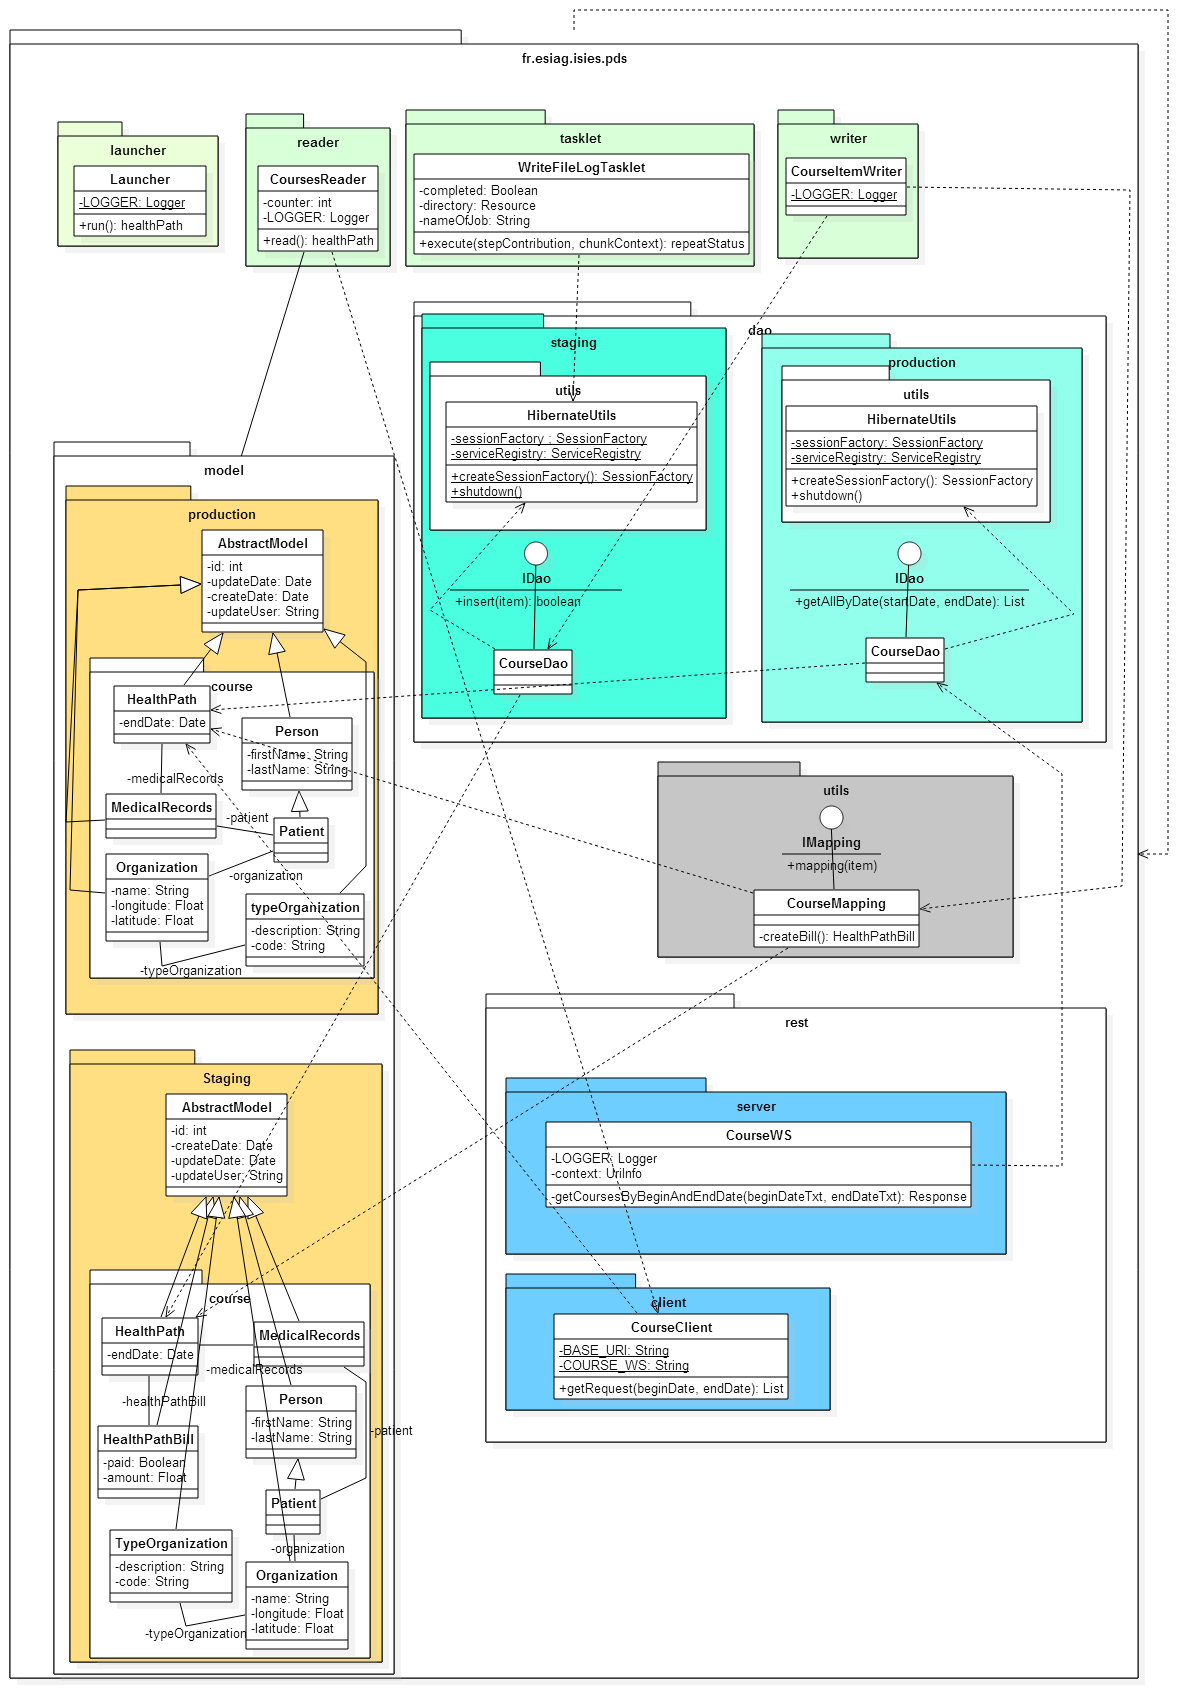
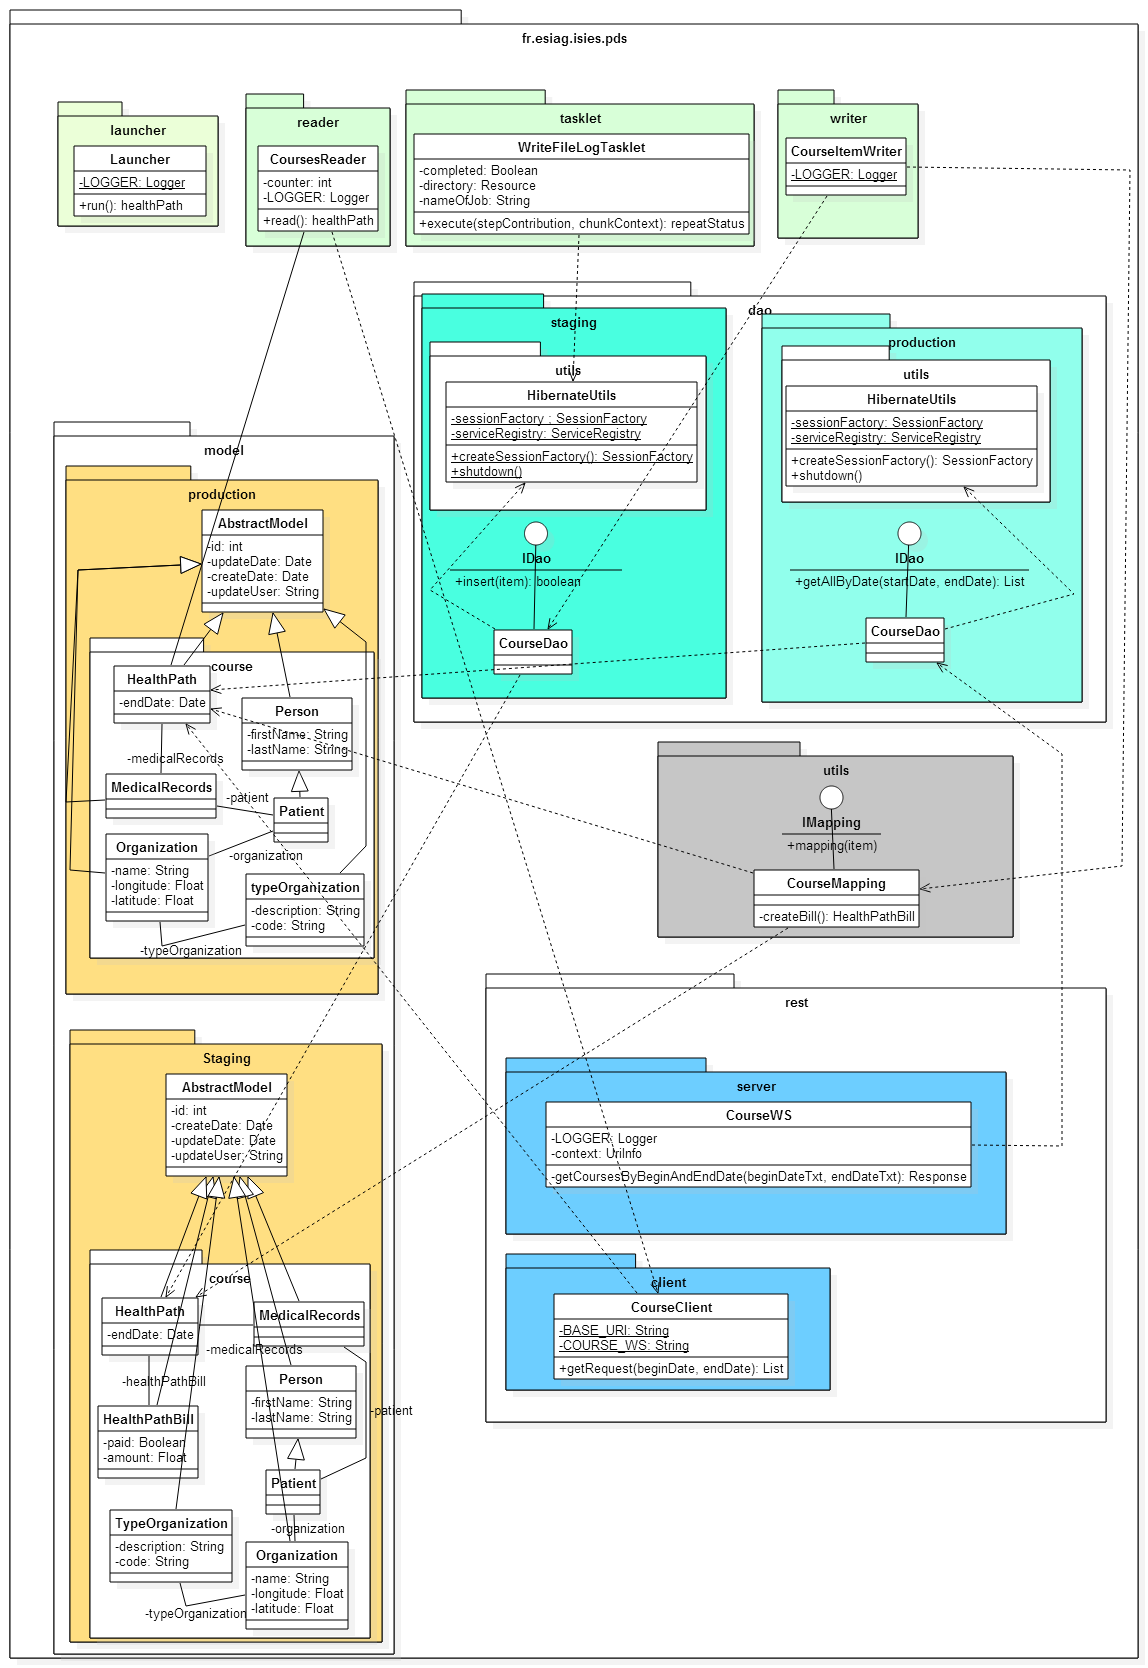
diagram api rest for refused assigment kpi

Changed region(s): [[0.0, 0.0, 1.0, 0.9976], [0.9146, 0.5923, 0.9756, 0.8417], [0.4268, 0.4676, 0.4573, 0.4988]]

diff --git a/pfr-easyes-pds-r3-rest/pfr-easyes-pds-r3-rest-server/src/main/java/fr/esiag/isies/pds/rest/server/InterventionWS.java b/pfr-easyes-pds-r3-rest/pfr-easyes-pds-r3-rest-server/src/main/java/fr/esiag/isies/pds/rest/server/InterventionWS.java
@@ -1,0 +1,85 @@
+package fr.esiag.isies.pds.rest.server;
+
+import java.text.DateFormat;
+import java.text.ParseException;
+import java.text.SimpleDateFormat;
+import java.util.Date;
+import java.util.List;
+import java.util.Locale;
+
+import javax.ws.rs.GET;
+import javax.ws.rs.Path;
+import javax.ws.rs.PathParam;
+import javax.ws.rs.Produces;
+import javax.ws.rs.core.Context;
+import javax.ws.rs.core.MediaType;
+import javax.ws.rs.core.Response;
+import javax.ws.rs.core.UriInfo;
+
+import org.slf4j.Logger;
+import org.slf4j.LoggerFactory;
+
+import fr.esiag.isies.pds.dao.production.InterventionDao;
+import fr.esiag.isies.pds.model.production.intervention.Intervention;
+
+/**
+ * Webservice which exposed one method (get http request)
+ * 
+ * @author PFR
+ *
+ */
+@Path("intervention-ws")
+public class InterventionWS {
+
+	/**
+	 * Logger
+	 */
+	private static final Logger LOGGER = LoggerFactory
+			.getLogger(InterventionWS.class);
+
+	@Context
+	private UriInfo context;
+
+	/**
+	 * Dao for retrieve list of assigment
+	 */
+	private InterventionDao interventionDao = new InterventionDao();
+
+	/**
+	 * this method is a restfull webservice which call production dao for
+	 * retrieve all of interventions by begin date and end date
+	 * 
+	 * @param beginDate
+	 * @param endDate
+	 * @return response which contains all interventions between begin and end date
+	 *         and status 200 if everything is ok if it's not ok this method
+	 *         return http code 400 (bad request)
+	 * @throws Exception
+	 */
+	@Path("{beginDate}/{endDate}")
+	@GET
+	@Produces(MediaType.APPLICATION_JSON)
+	public Response getInterventionsByBeginAndEndDate(
+			@PathParam("beginDate") String beginDateTxt,
+			@PathParam("endDate") String endDateTxt) {
+		DateFormat sdf = new SimpleDateFormat("ddMMyyyy", Locale.FRANCE);
+		try {
+			Date beginDate = sdf.parse(beginDateTxt);
+			Date endDate = sdf.parse(endDateTxt);
+			LOGGER.debug("PDS-R3-PFR : begin date : " + sdf.format(beginDate));
+			LOGGER.debug("PDS-R3-PFR : end date : " + sdf.format(endDate));
+			// begin date must be before end date
+			if (beginDate.after(endDate)) {
+				LOGGER.info("PDS-R3-PFR : begin date must be before end date");
+				return Response.status(400).build();
+			} else {
+				List<Intervention> lst = interventionDao.getAllByDate(beginDate,
+						endDate);
+				return Response.status(200).entity(lst).build();
+			}
+		} catch (ParseException e) {
+			LOGGER.info("PDS-R3-PFR : date format error... (ddmmYYYY)");
+			return Response.status(400).build();
+		}
+	}
+}

diff --git a/pfr-easyes-pds-r3-rest/pfr-easyes-pds-r3-rest-client/src/main/java/fr/esiag/isies/pds/rest/client/InterventionClient.java b/pfr-easyes-pds-r3-rest/pfr-easyes-pds-r3-rest-client/src/main/java/fr/esiag/isies/pds/rest/client/InterventionClient.java
@@ -1,0 +1,60 @@
+package fr.esiag.isies.pds.rest.client;
+
+import java.util.List;
+
+import javax.ws.rs.core.MediaType;
+
+import com.sun.jersey.api.client.Client;
+import com.sun.jersey.api.client.ClientResponse;
+import com.sun.jersey.api.client.GenericType;
+import com.sun.jersey.api.client.WebResource;
+import com.sun.jersey.api.client.config.ClientConfig;
+import com.sun.jersey.api.client.config.DefaultClientConfig;
+import com.sun.jersey.api.json.JSONConfiguration;
+
+import fr.esiag.isies.pds.model.production.intervention.Intervention;
+
+/**
+ * rest client for intervention ws
+ * 
+ * @author PFR
+ *
+ */
+public class InterventionClient {
+
+	/**
+	 * Base URI
+	 */
+	private static final String BASE_URI = "http://localhost:8080/pfr-easyes-pds-r3-rest-server/rest/";
+
+	/**
+	 * path of Course WS
+	 */
+	private static final String COURSE_WS = "intervention-ws";
+
+	/**
+	 * Request Course WS to get lst of interventions which are closed between begin
+	 * date and end date
+	 * 
+	 * @param beginDate
+	 * @param endDate
+	 * @return list of interventions
+	 */
+	public List<Intervention> getRequest(String beginDate, String endDate) {
+		ClientConfig clientConfig = new DefaultClientConfig();
+		clientConfig.getFeatures().put(JSONConfiguration.FEATURE_POJO_MAPPING,
+				Boolean.TRUE);
+		Client client = Client.create(clientConfig);
+		WebResource webResource = client.resource(BASE_URI + COURSE_WS + "/"
+				+ beginDate + "/" + endDate);
+		webResource.accept(MediaType.APPLICATION_JSON);
+
+		ClientResponse response = webResource.get(ClientResponse.class);
+		List<Intervention> lst = response
+				.getEntity(new GenericType<List<Intervention>>() {
+				});
+
+		return lst;
+
+	}
+}

diff --git a/pfr-easyes-pds-r3-rest/pfr-easyes-pds-r3-rest-server/src/test/java/fr/esiag/isies/pds/rest/server/InterventionWSTest.java b/pfr-easyes-pds-r3-rest/pfr-easyes-pds-r3-rest-server/src/test/java/fr/esiag/isies/pds/rest/server/InterventionWSTest.java
@@ -1,0 +1,75 @@
+package fr.esiag.isies.pds.rest.server;
+
+import static org.junit.Assert.assertEquals;
+
+import java.util.ArrayList;
+import java.util.Date;
+import java.util.List;
+
+import mockit.Mocked;
+import mockit.NonStrictExpectations;
+
+import org.junit.Before;
+import org.junit.Test;
+
+import fr.esiag.isies.pds.dao.production.InterventionDao;
+import fr.esiag.isies.pds.model.production.intervention.Intervention;
+
+/**
+ * Unit Test for intervention WS
+ * 
+ * @author PFR
+ *
+ */
+public class InterventionWSTest {
+
+	private static final int BAD_REQUEST_CODE_SERVER = 400;
+
+	private static final int OK_CODE_SERVER = 200;
+
+	@Mocked
+	private InterventionDao interventionDao;
+
+	@Mocked
+	private Intervention intervention;
+
+	@Mocked
+	Date startDate;
+
+	@Mocked
+	Date endDate;
+
+	private InterventionWS interventionWS = new InterventionWS();
+
+	List<Intervention> interventionList = new ArrayList<Intervention>();
+
+	@Before
+	public void init() {
+		interventionList.add(intervention);
+	}
+
+	@Test
+	public void testGetCourseByBeginAndEndDate() {
+		new NonStrictExpectations() {
+			{
+				interventionDao.getAllByDate(startDate, endDate);
+				result = interventionList;
+			}
+		};
+
+		/*
+		 * assert to verify when you have wrong format arguments, WS return code
+		 * error 400
+		 */
+		assertEquals(BAD_REQUEST_CODE_SERVER, interventionWS
+				.getInterventionsByBeginAndEndDate("", "").getStatus());
+
+		/*
+		 * assert to verify when you have valid arguments, WS return code 200
+		 * (ok)
+		 */
+		assertEquals(OK_CODE_SERVER,
+				interventionWS.getInterventionsByBeginAndEndDate("22012010", "30042015")
+						.getStatus());
+	}
+}

diff --git a/pfr-easyes-pds-r3-dao/pfr-easyes-pds-r3-dao-production/src/main/java/fr/esiag/isies/pds/dao/production/InterventionDao.java b/pfr-easyes-pds-r3-dao/pfr-easyes-pds-r3-dao-production/src/main/java/fr/esiag/isies/pds/dao/production/InterventionDao.java
@@ -1,0 +1,32 @@
+package fr.esiag.isies.pds.dao.production;
+
+import java.util.Date;
+import java.util.List;
+
+import org.hibernate.Session;
+import org.hibernate.criterion.Restrictions;
+
+import fr.esiag.isies.pds.dao.production.utils.HibernateUtils;
+import fr.esiag.isies.pds.model.production.intervention.Intervention;
+
+/**
+ * 
+ * @author PFR
+ *
+ */
+public class InterventionDao implements IDao<Intervention> {
+
+	@Override
+	public List<Intervention> getAllByDate(Date startDate, Date endDate) {
+		Session session = HibernateUtils.getSessionFactory().openSession();
+		session.beginTransaction();
+		@SuppressWarnings("unchecked")
+		List<Intervention> lst = (List<Intervention>) session
+				.createCriteria(Intervention.class)
+				.add(Restrictions.between("updateDate", startDate, endDate))
+				.list();
+		session.close();
+		return lst;
+	}
+
+}

diff --git a/pfr-easyes-pds-r3-dao/pfr-easyes-pds-r3-dao-production/src/main/java/fr/esiag/isies/pds/dao/production/CourseDao.java b/pfr-easyes-pds-r3-dao/pfr-easyes-pds-r3-dao-production/src/main/java/fr/esiag/isies/pds/dao/production/CourseDao.java
@@ -9,6 +9,11 @@ import org.hibernate.criterion.Restrictions;
 import fr.esiag.isies.pds.dao.production.utils.HibernateUtils;
 import fr.esiag.isies.pds.model.production.course.HealthPath;
 
+/**
+ * 
+ * @author PFR
+ *
+ */
 public class CourseDao implements IDao<HealthPath> {
 
 	@Override

diff --git a/pfr-easyes-pds-r3-model/pfr-easyes-pds-r3-model-production/src/main/java/fr/esiag/isies/pds/model/production/intervention/Intervention.java b/pfr-easyes-pds-r3-model/pfr-easyes-pds-r3-model-production/src/main/java/fr/esiag/isies/pds/model/production/intervention/Intervention.java
@@ -1,0 +1,12 @@
+package fr.esiag.isies.pds.model.production.intervention;
+
+import fr.esiag.isies.pds.model.production.AbstractModel;
+
+/**
+ * 
+ * @author PFR
+ *
+ */
+public class Intervention extends AbstractModel {
+
+}
